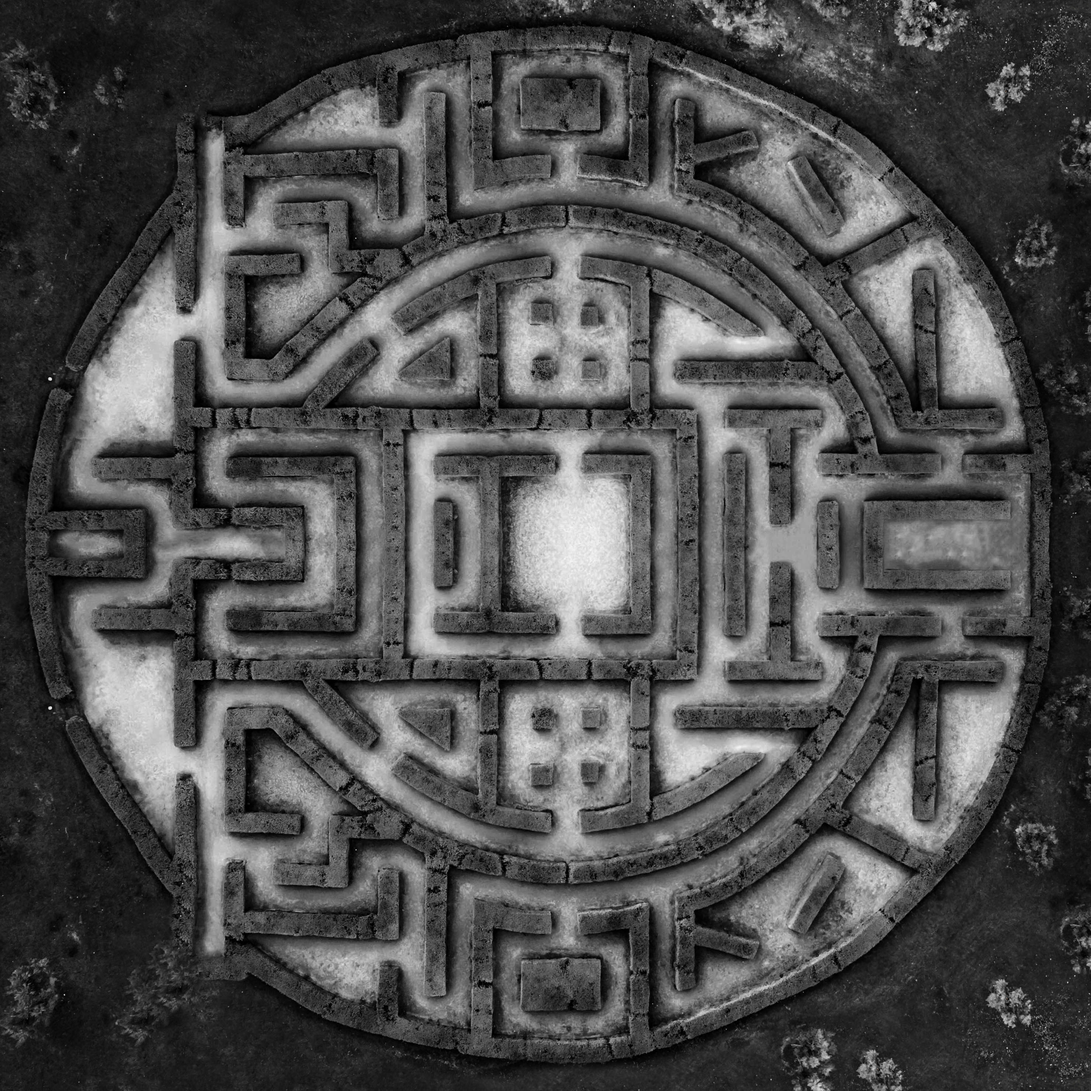
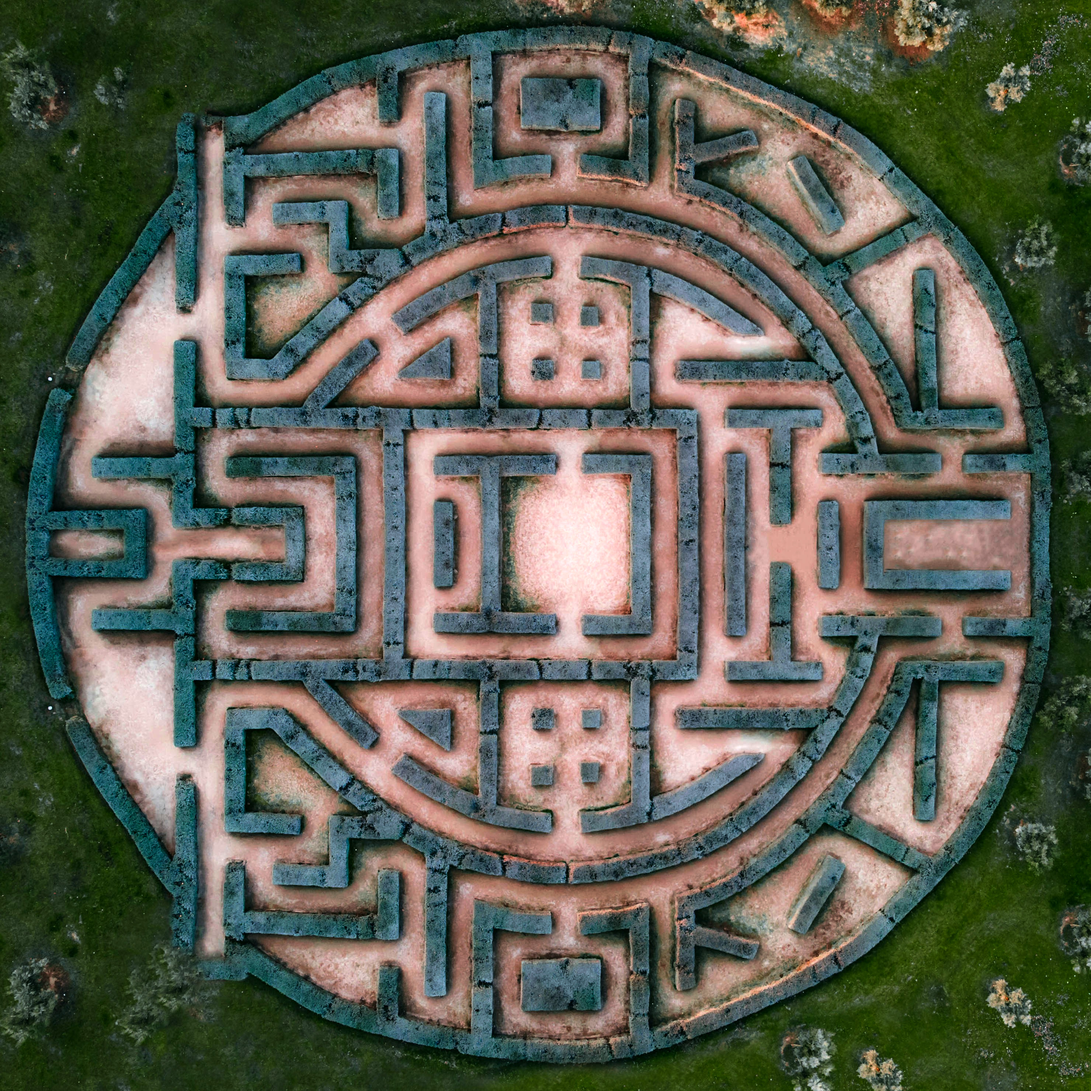
Added a tiny bit of styling, added readme, and changed images

diff --git a/styles.css b/styles.css
@@ -1,13 +1,32 @@
+body {
+  margin: 10x;
+  padding: 0;
+  background-image: url(./assets/img/Forrest_Background.jpg);
+  background-size: cover;
+  overflow: hidden;
+  display: flex;
+  flex-direction: column;
+  justify-content: center;
+  align-items: center;
+  @media (max-width: 1130px) {
+    background-size: auto;
+    background-position: center;
+  }
+}
+
+.grid-placer {
+  display: flex;
+  justify-content: center;
+}
 .memory-grid {
-  justify-self: center;
   display: grid;
   grid-template-columns: repeat(4, 1fr);
   grid-template-rows: 4;
-  width: 80vw;
+  width: 50vw;
 }
 
 .memory-card {
-  width: 50%;
+  width: 75%;
   aspect-ratio: 1;
   overflow: hidden;
   margin: 10px;
@@ -15,7 +34,15 @@
 
 .scores {
   display: flex;
+  justify-content: center;
+  color: white;
+  background-color: black;
+  padding: 8px;
+  border-radius: 10px;
+  width: 10vw;
   p {
     margin: 5px;
+    font-family: "Trebuchet MS", "Lucida Sans Unicode", "Lucida Grande",
+      "Lucida Sans", Arial, sans-serif;
   }
 }

diff --git a/index.html b/index.html
@@ -9,10 +9,10 @@
   <body>
     <div id="scores" class="scores">
       <p>Scores</p>
-      </div>
-    
     </div>
-    <div id="memory-grid" class="memory-grid"></div>
+    <div class="grid-placer">
+      <div id="memory-grid" class="memory-grid"></div>
+    </div>
     <script src="script.js" type="module"></script>
   </body>
 </html>

diff --git a/ReadMe.md b/ReadMe.md
@@ -1,6 +1,8 @@
-# To do:
+# Birdory in Vanilla JS
 
-- Styling
-  - Center whole game
-  - have pretty background
-  - optimize sizes of everything
+Little memory game with bird images.
+
+No focus on styling, more on Dom Manipulation and game Logic.
+
+Will maybe add some prettier styling later on, just wanted to refresh on Dom Manipulation for now.
+Images from unsplash.
